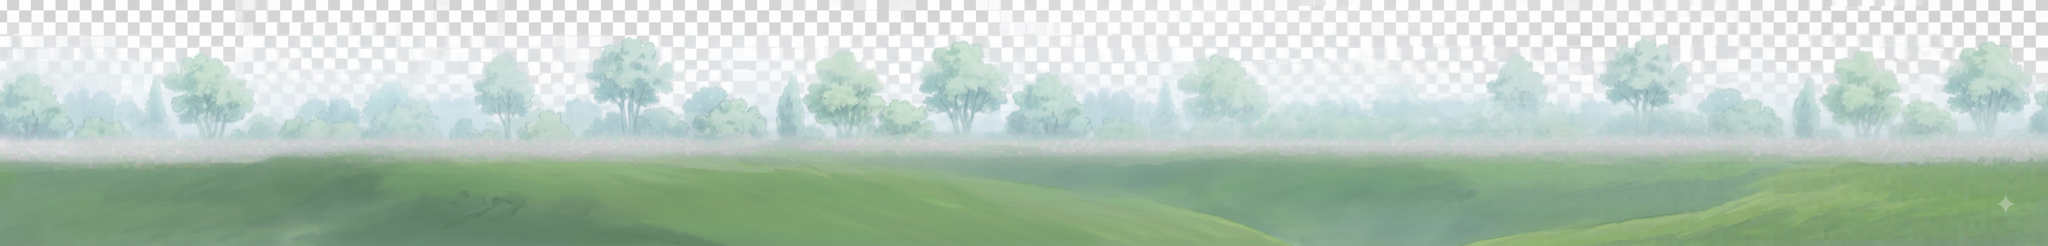
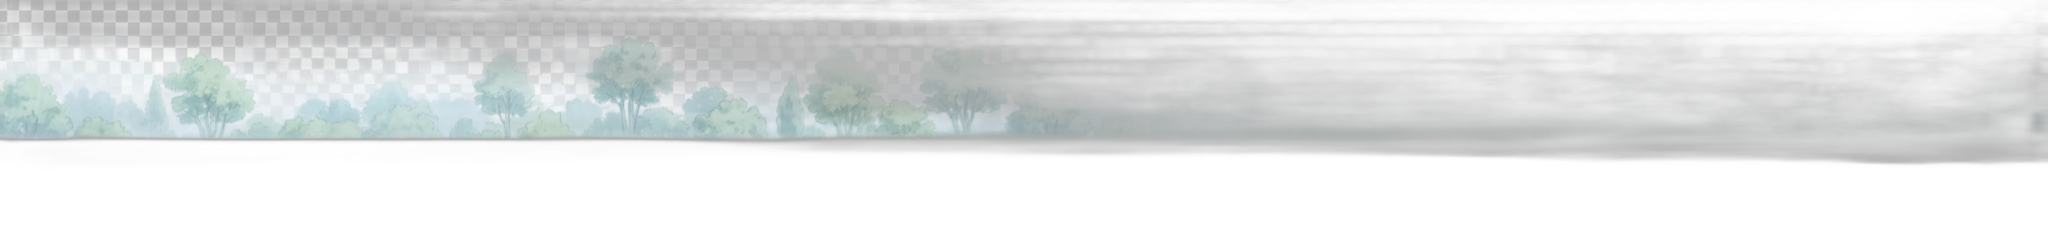
Fix checkerboard + scenery-on-houses: rembg the midground_trees band (it was transparent but I'd skipped it → showed the baked checkerboard in the sky); skip scatter sprites that land on a house footprint so trees/props no longer clip through buildings

diff --git a/src/three3d.ts b/src/three3d.ts
@@ -390,6 +390,8 @@ function buildTown(world: World) {
     const px = hashf(i * 5.7 + 1) * WW, pz = hashf(i * 9.3 + 4) * WH
     const onRoad = Math.abs((px / S % BLOCK) - BLOCK / 2) > BLOCK / 2 - 40 || Math.abs((pz / S % BLOCK) - BLOCK / 2) > BLOCK / 2 - 40
     if (onRoad) continue // keep streets clear
+    const wx = px / S, wz = pz / S // don't plant scenery on top of a house
+    if (world.houses.some((h) => wx > h.x - 28 && wx < h.x + h.w + 28 && wz > h.y - 28 && wz < h.y + h.h + 28)) continue
     const k = hashf(i * 2.1)
     if (gfxHigh) {
       const isTree = k < 0.3, r2 = hashf(i * 4.4)